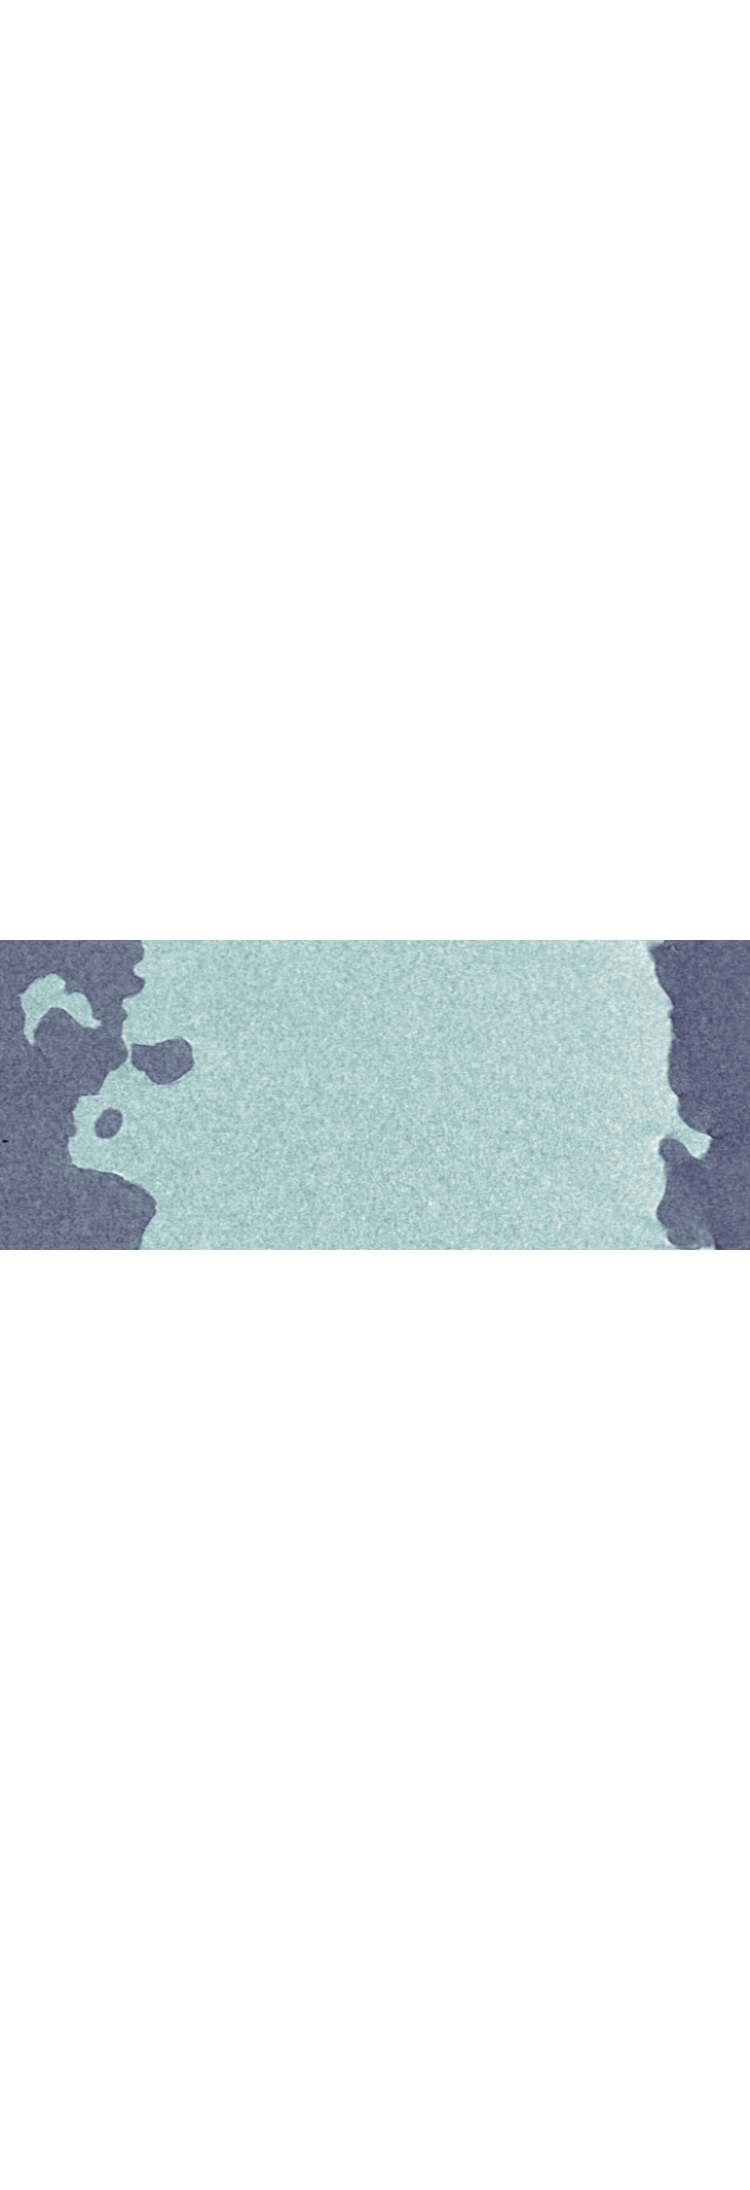
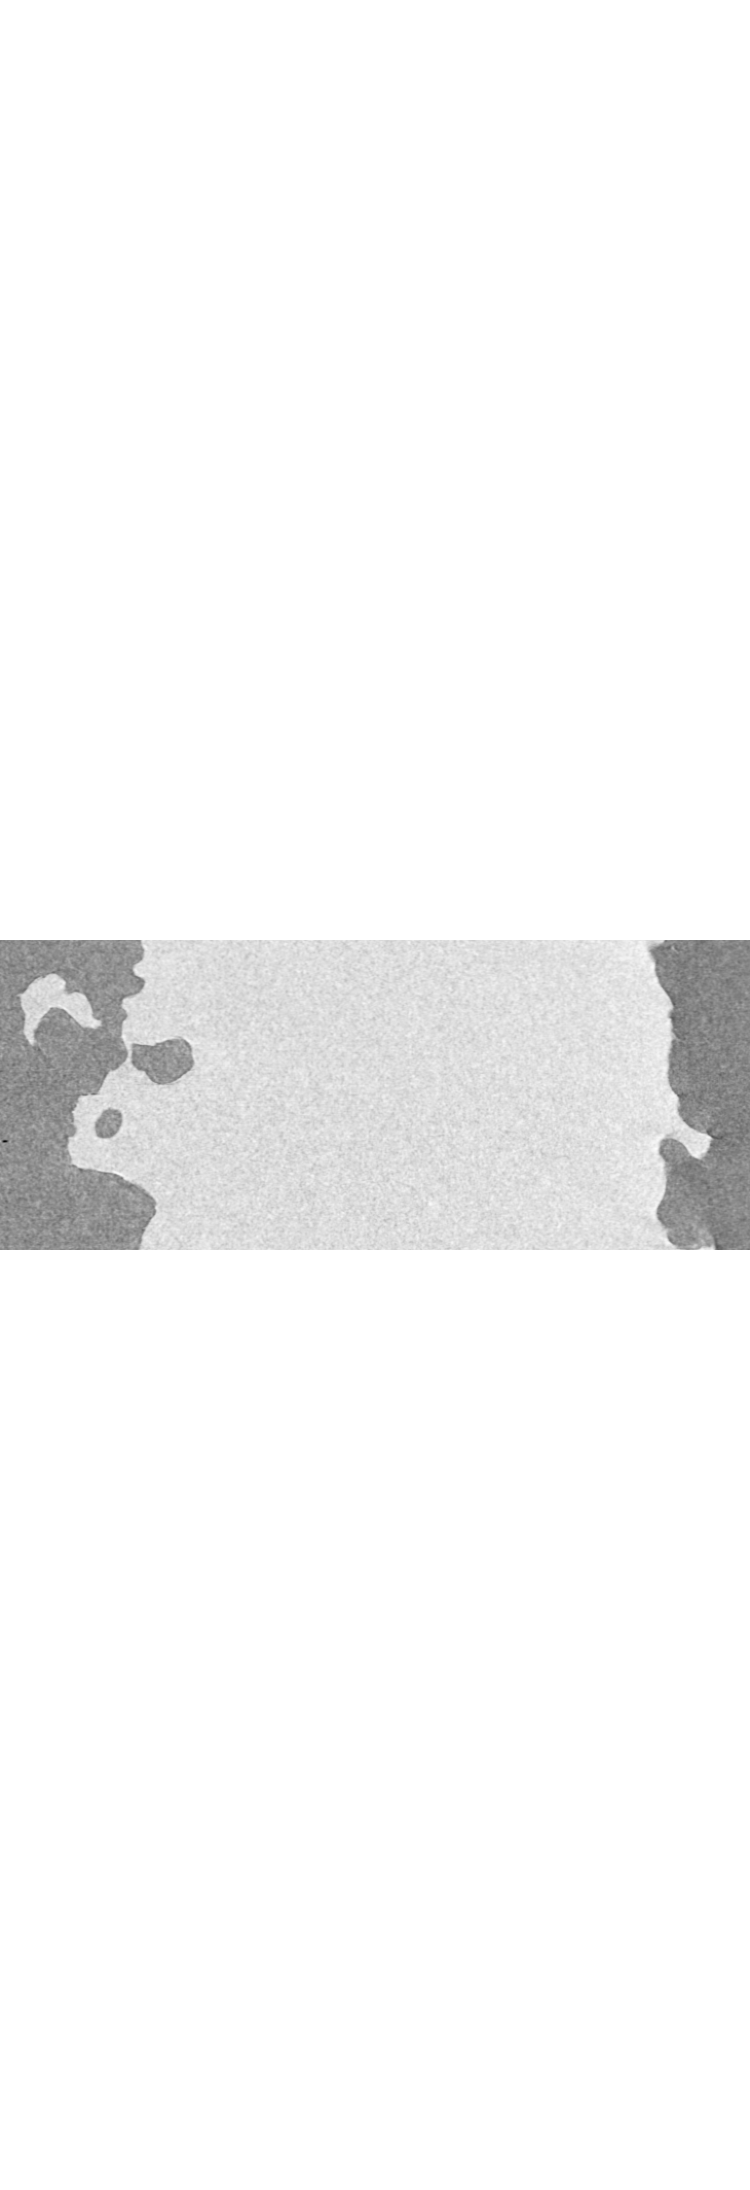
add second image

Changed region(s): [[0.0, 0.4037, 1.0, 0.59]]

diff --git a/Silk_scripts/crosssection.py b/Silk_scripts/crosssection.py
@@ -1,4 +1,4 @@
-# This script loads .mhd files and calculates crossectional area.
+# This script loads .mhd files and calculates cross-sectional area.
 
 # Import standard packages
 from pathlib import Path                 # Used to manage path variables in windows or linux
@@ -70,7 +70,7 @@ for x in range(0, len(Data), 1):
     # Plot XY mid-plane
     Size_f = np.array(Scan_f.shape[1:]) / 100
     Figure, Axis = plt.subplots(1, 1, figsize=(Size_f[1], Size_f[0]))
-    Axis.imshow(Scan_f[ZMid_f, :, :], cmap='bone')
+    Axis.imshow(Scan_f[ZMid_f, :, :], cmap='Greys_r')
     Axis.axis('off')
     plt.subplots_adjust(left=0, bottom=0, right=1, top=1)
     plt.show()
@@ -78,7 +78,7 @@ for x in range(0, len(Data), 1):
 
     # Plot YZ mid-plane
     Figure, Axis = plt.subplots(1, 1, figsize=(Size_f[1], Size_f[0]))
-    Axis.imshow(Scan_f[:, :, XMid_f], cmap='bone')
+    Axis.imshow(Scan_f[:, :, XMid_f], cmap='Greys_r')
     Axis.axis('off')
     plt.subplots_adjust(left=0, bottom=0, right=1, top=1)
     plt.savefig(os.path.join('/home/stefan/Documents/PythonScripts/Silk_data/', 'x' + '_' + 'YZ_Plane'),
@@ -89,14 +89,14 @@ for x in range(0, len(Data), 1):
     # Plot XY mid-plane
     Size_s = np.array(Scan_s.shape[1:]) / 100
     Figure, Axis = plt.subplots(1, 1, figsize=(Size_s[1], Size_s[0]))
-    Axis.imshow(Scan_s[ZMid_s, :, :], cmap='bone')
+    Axis.imshow(Scan_s[ZMid_s, :, :], cmap='Greys_r')
     Axis.axis('off')
     plt.subplots_adjust(left=0, bottom=0, right=1, top=1)
     plt.show()
 
     # Plot YZ mid-plane
     Figure, Axis = plt.subplots(1, 1, figsize=(Size_s[1], Size_s[0]))
-    Axis.imshow(Scan_s[:, :, XMid_s], cmap='bone')
+    Axis.imshow(Scan_s[:, :, XMid_s], cmap='Greys_r')
     Axis.axis('off')
     plt.subplots_adjust(left=0, bottom=0, right=1, top=1)
     plt.savefig(os.path.join('/home/stefan/Documents/PythonScripts/Silk_data/', 'x' + '_' + 'YZ_Plane'),
@@ -155,13 +155,15 @@ for x in range(0, len(Data), 1):
     plt.show()
     # plt.close()
 
-    openeded_image = opening(Image_f, radius=20)
+    opened_image_f = opening(Image_f, radius=30)
+    final_image_f = sitk.GetArrayFromImage(opened_image_f)
+
     Figure, Axis = plt.subplots(1, 1, figsize=(Size_f[1], Size_f[0]))
-    Axis.imshow(openeded_image, cmap='Greys_r')
+    Axis.imshow(final_image_f[ZMid_f, :, :], cmap='Greys_r')
     Axis.axis('off')
     plt.subplots_adjust(left=0, bottom=0, right=1, top=1)
     plt.show()
-
+    # imshow(final_image_f)
 #
 #     RegionProperties = measure.regionprops(Eroded*1)[0]
 #
